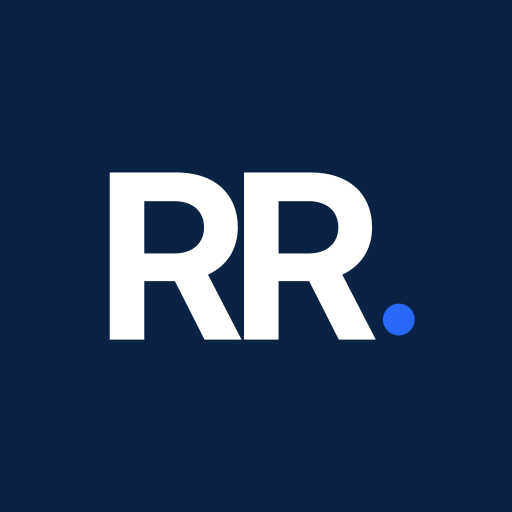
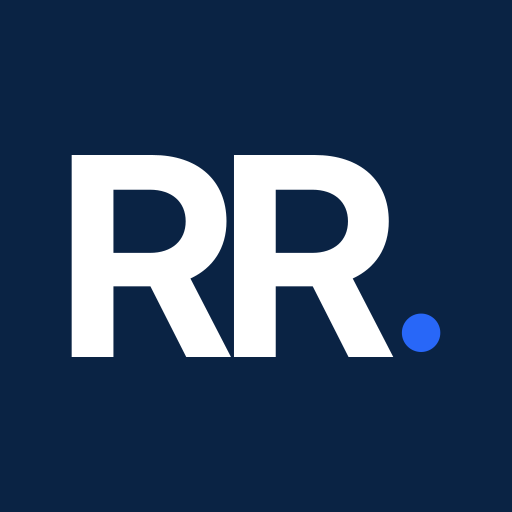
Gera os ícones da marca a partir do desenho mestre e acrescenta o cartão de partilha
Os logótipos e os ícones da App deixam de ser cópias mantidas à mão e passam
a sair do monograma em marca/origem, o mesmo que o website usa.

O ícone normal leva 14% de margem; o maskable leva 24%, porque o Android
recorta-o num círculo e com menos folga o ponto ficava cortado.

Sobe a versão da cache do service worker para v2: o favicon e os ícones estão
na lista de pré-cache, e sem isto quem já instalou a App continuava a ver os
antigos indefinidamente.

Acrescenta o openGraph, que não existia — partilhar a ligação dava uma caixa
cinzenta com o endereço.

Changed region(s): [[0.125, 0.2812, 0.875, 0.7188]]

diff --git a/app/layout.tsx b/app/layout.tsx
@@ -33,6 +33,23 @@ export const metadata: Metadata = {
     apple: '/apple-touch-icon.png',
   },
   formatDetection: { telephone: false },
+  // O cartão que aparece quando alguém partilha a ligação. Sem isto, a
+  // partilha saía uma caixa cinzenta com o endereço.
+  openGraph: {
+    type: 'website',
+    locale: 'pt_PT',
+    siteName: 'IRS 2026 · RR.',
+    title: 'O seu IRS, sem surpresas.',
+    description:
+      'Entregue o seu IRS com acompanhamento de um contabilista certificado. Recolha, revisão e submissão num só lugar.',
+    images: [{ url: '/og.png', width: 1200, height: 630, alt: 'RR. — Contabilidade · Fiscalidade' }],
+  },
+  twitter: {
+    card: 'summary_large_image',
+    title: 'O seu IRS, sem surpresas.',
+    description: 'Entrega acompanhada por um contabilista certificado.',
+    images: ['/og.png'],
+  },
 };
 
 export const viewport: Viewport = {

diff --git a/public/sw.js b/public/sw.js
@@ -3,7 +3,7 @@
    por isso nada de respostas autenticadas em cache. Guardamos apenas o que é
    estático e uma página de apoio para quando a rede falha. */
 
-const VERSAO = 'rr-irs-v1';
+const VERSAO = 'rr-irs-v2';
 const ESTATICO = `${VERSAO}-estatico`;
 const OFFLINE = '/offline';
 
